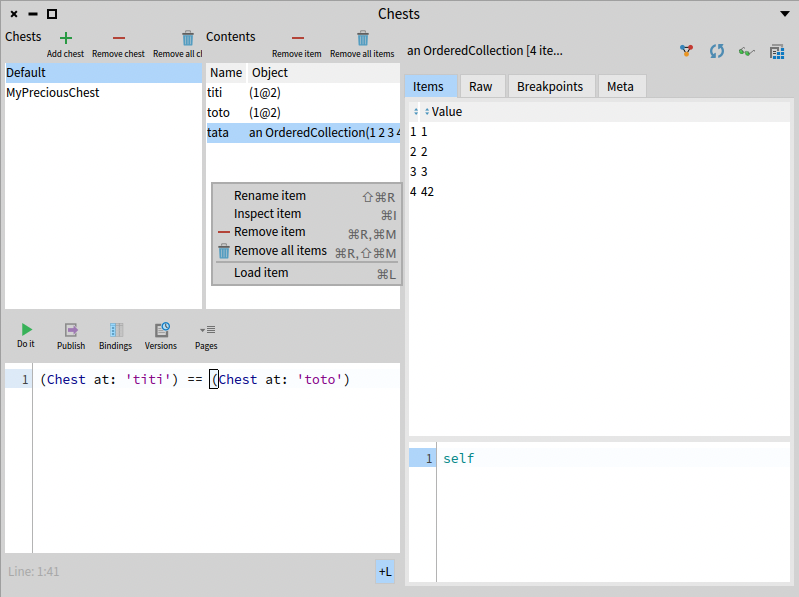
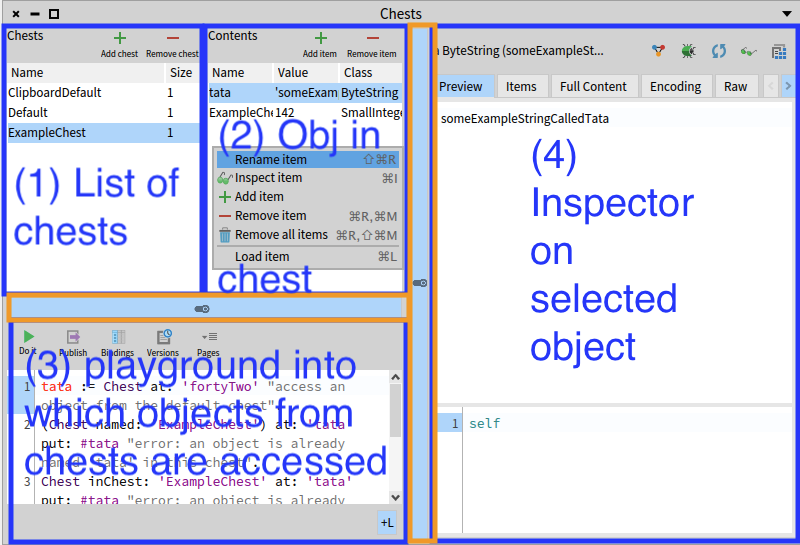
rewriting first part of chest overview

diff --git a/chapters/chest/chest_gui/chest_gui.md b/chapters/chest/chest_gui/chest_gui.md
@@ -1,3 +1,18 @@
 ### Chest Graphical User Interface
 
 ![Chest overview](./figures/chest-overview.png)
+
+![Chest overview](./figures/chest-overview.png width=70&label=fig:chest-overview)
+
+To be able to visualize more easily the stored objects, _Chest_ provides a _GUI_.
+A table, referred as 1 in Figure *@fig:chest-overview@*, displays the name of all existing chests in the system, as well as the number of objects inside it.
+When selecting a chest in this table, all objects from this chest inside it are displayed in another table next to it, referred as 2 in Figure *@fig:chest-overview@*.
+For each of these objects, their name, class and value are displayed in this table.
+
+This list (resp. table) provides a context menu and buttons to perform actions on the selected chest (resp. object in chest), such as: adding a new chest, renaming/removing chest (resp. object in chest) and load all chest's bindings (resp. the selected object's binding) in the playground, referred as 3 in Figure *@fig:chest-overview@*.
+A playground is a presenter in which developers can write scripts.
+When a chest's binding is loaded into it, the developer can use the corresponding variable in this playground, to compare objects for example.
+Finally, an inspector on the selected object, referred as 4 in Figure *@fig:chest-overview@* allows to (mainly) visualize the values of its instance variables.
+
+
+
